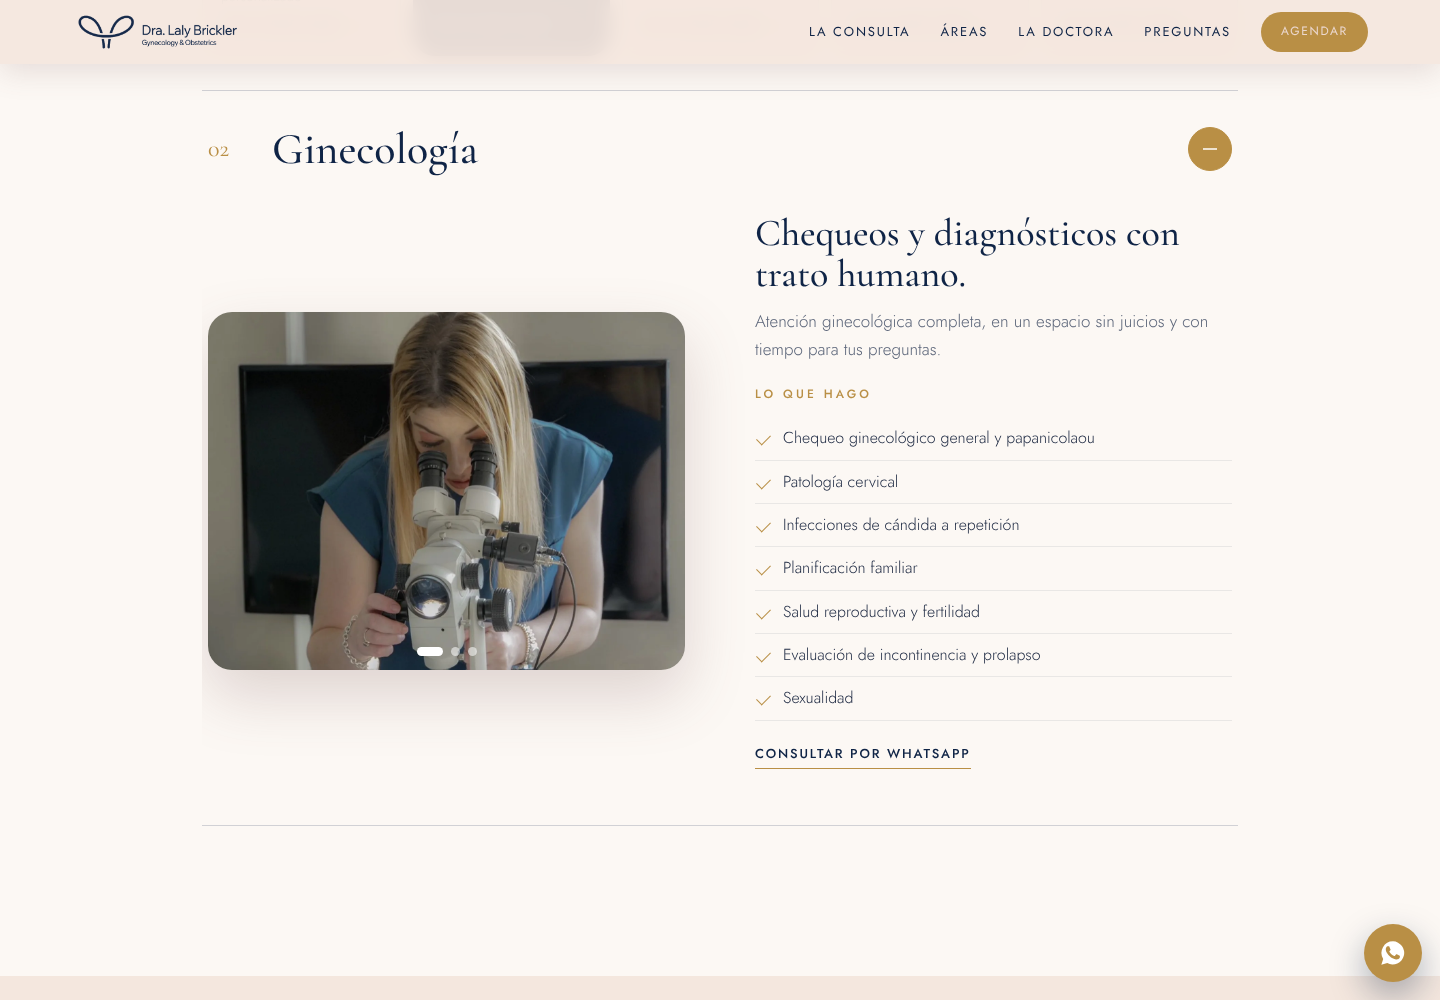
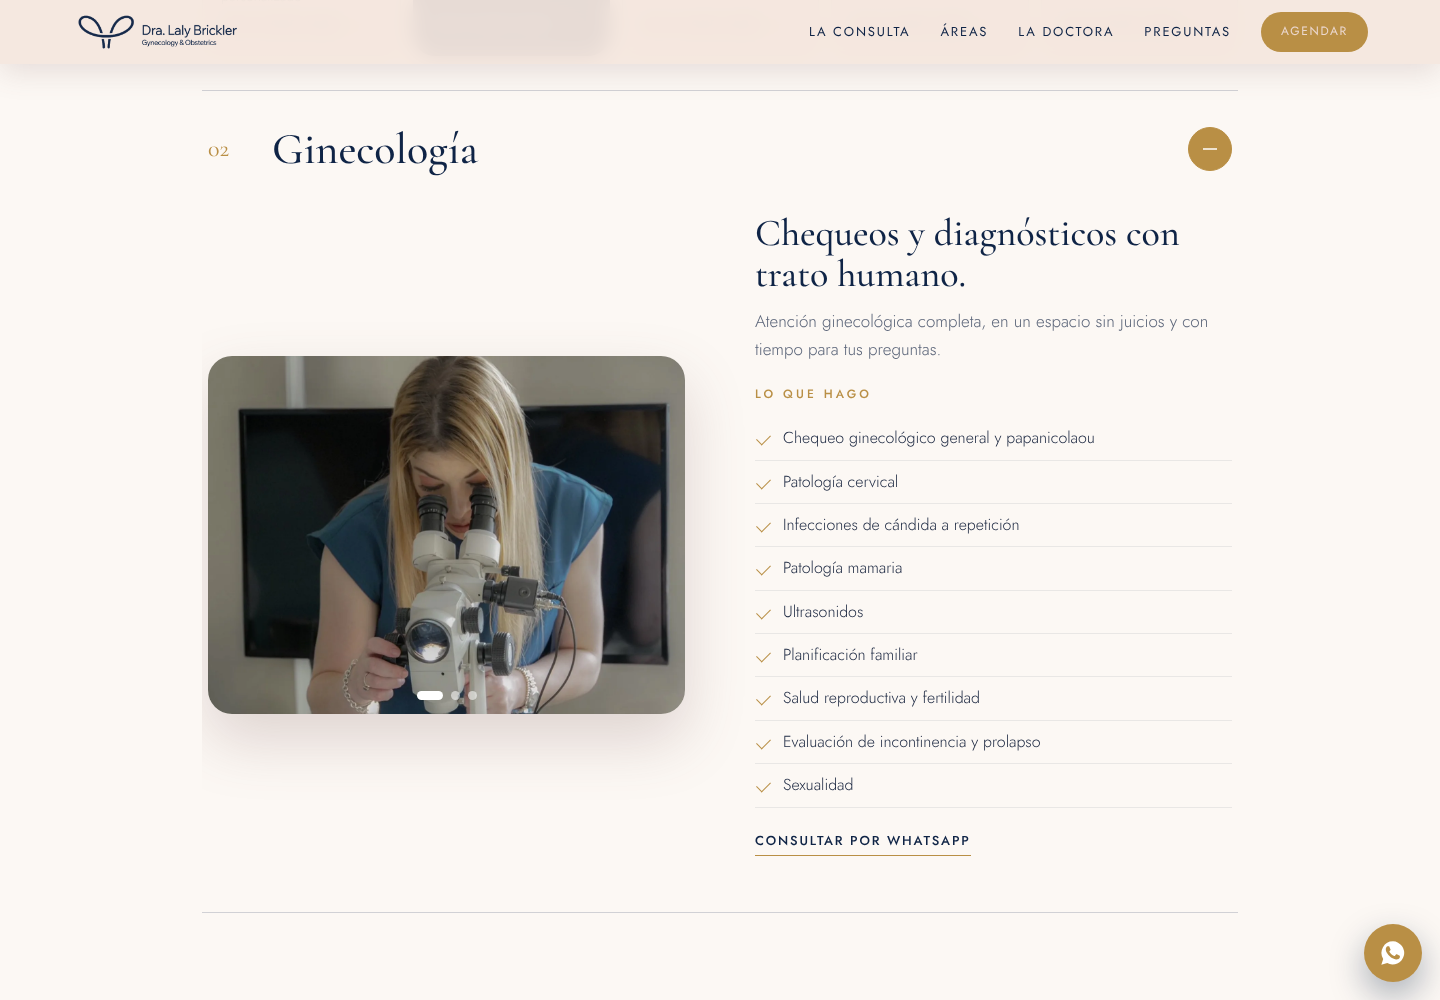
Add breast pathology and ultrasounds to gynecology
Claude-Session: https://claude.ai/code/session_016t7eSQbEreZDrmVY67GwuZ

diff --git a/website/index.html b/website/index.html
@@ -449,7 +449,7 @@ footer .fine a{text-decoration:underline}
             <h3>Chequeos y diagnósticos con trato humano.</h3>
             <p>Atención ginecológica completa, en un espacio sin juicios y con tiempo para tus preguntas.</p>
             <span class="acc-label">Lo que hago</span>
-            <ul><li>Chequeo ginecológico general y papanicolaou</li><li>Patología cervical</li><li>Infecciones de cándida a repetición</li><li>Planificación familiar</li><li>Salud reproductiva y fertilidad</li><li>Evaluación de incontinencia y prolapso</li><li>Sexualidad</li></ul>
+            <ul><li>Chequeo ginecológico general y papanicolaou</li><li>Patología cervical</li><li>Infecciones de cándida a repetición</li><li>Patología mamaria</li><li>Ultrasonidos</li><li>Planificación familiar</li><li>Salud reproductiva y fertilidad</li><li>Evaluación de incontinencia y prolapso</li><li>Sexualidad</li></ul>
             <a class="link" href="https://wa.me/50672498786?text=Hola%20Dra.%20Brickler%2C%20quisiera%20una%20consulta%20de%20ginecolog%C3%ADa." target="_blank" rel="noopener">Consultar por WhatsApp</a>
           </div>
         </div></div></div>
